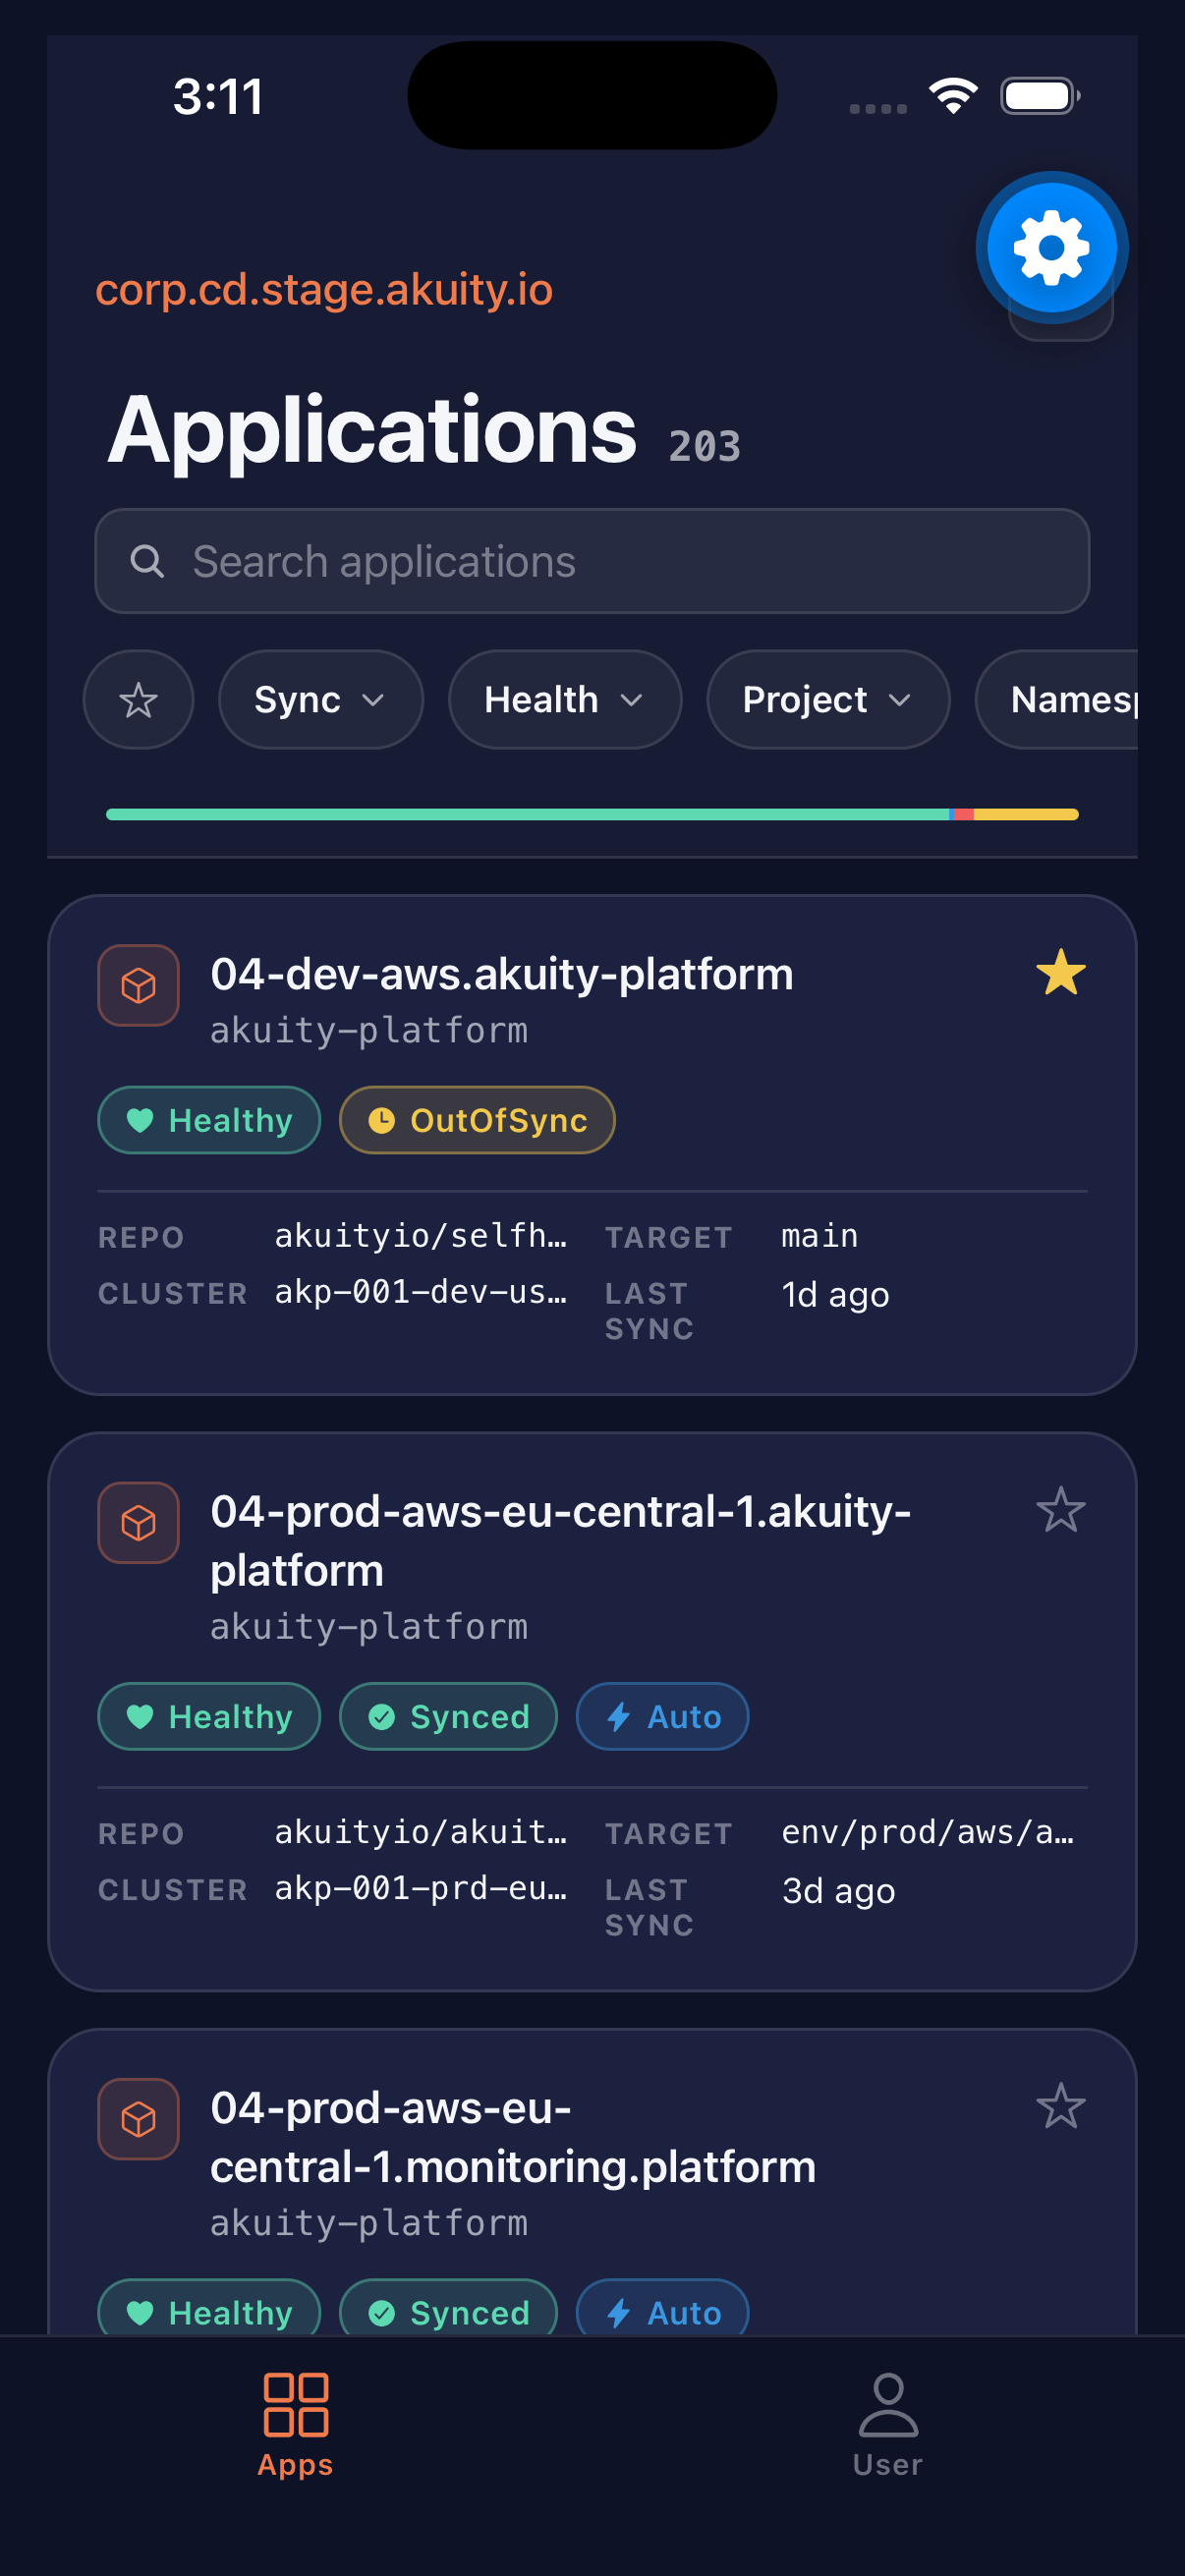
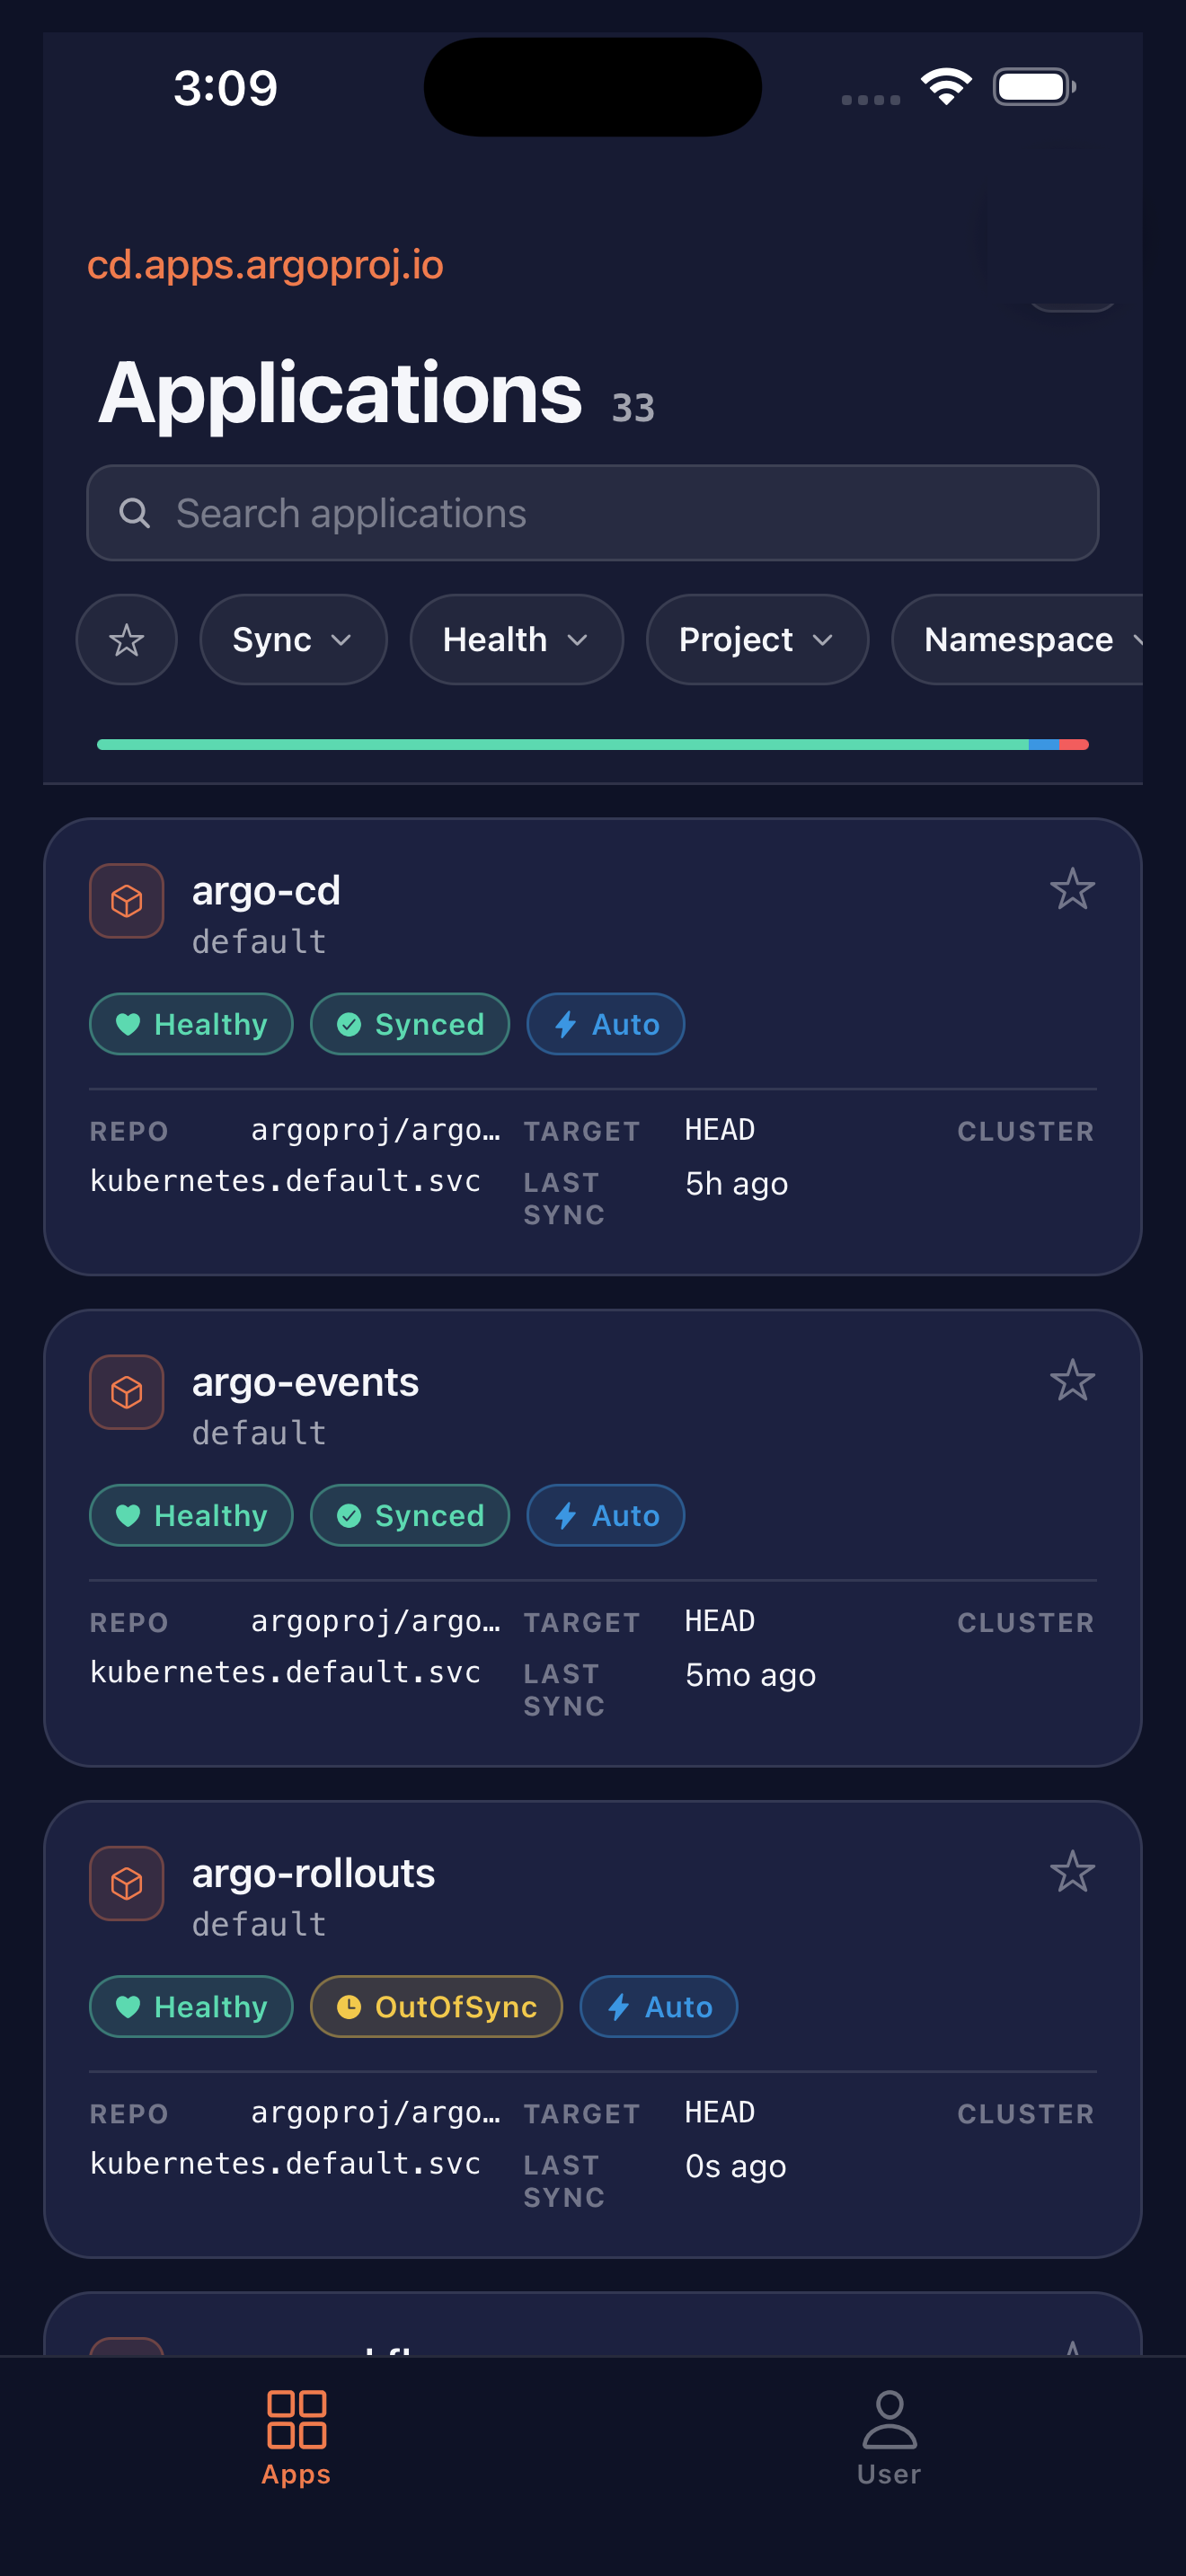
chore: polish website

diff --git a/website/index.html b/website/index.html
@@ -8,6 +8,9 @@
 <link rel="preconnect" href="https://fonts.googleapis.com">
 <link rel="preconnect" href="https://fonts.gstatic.com" crossorigin>
 <link href="https://fonts.googleapis.com/css2?family=Inter:wght@400;500;600;700&family=JetBrains+Mono:wght@400;500&display=swap" rel="stylesheet">
+<link rel="icon" type="image/x-icon" href="favicon.ico">
+<link rel="icon" type="image/png" sizes="32x32" href="favicon-32x32.png">
+<link rel="apple-touch-icon" sizes="180x180" href="apple-touch-icon.png">
 <link rel="stylesheet" href="styles.css">
 </head>
 <body>
@@ -25,6 +28,7 @@
     <nav class="nav" aria-label="Primary">
       <a href="index.html#features">Features</a>
       <a href="index.html#open-source">Open Source</a>
+      <a href="index.html#sso">SSO Setup</a>
       <a href="support.html">Support</a>
       <a href="privacy.html">Privacy</a>
     </nav>
@@ -52,7 +56,7 @@
     <div class="hero-text">
       <span class="pill">
         <span class="dot" aria-hidden="true"></span>
-        <span class="mono">v1.0 · open source</span>
+        <span class="mono">open source</span>
       </span>
       <h1>Argo CD<br><span class="accent">in your pocket.</span></h1>
       <p class="lead">
@@ -258,6 +262,62 @@
   </div>
 </section>
 
+<!-- ============== SSO SETUP ============== -->
+<section class="faq-section" id="sso">
+  <div class="container">
+    <div class="section-head">
+      <span class="eyebrow">// SSO Setup</span>
+      <h2>Using SSO? One server-side step.</h2>
+      <p>The app authenticates via OIDC/PKCE — your identity provider, your tokens, nothing in the middle. Depending on how your Argo CD is configured, you may need to register one redirect URI.</p>
+    </div>
+
+    <div class="faq-list">
+
+      <details class="faq-item" open>
+        <summary>
+          <span>Dex (built-in): register the mobile redirect URI</span>
+          <span class="faq-toggle" aria-hidden="true"><svg viewBox="0 0 24 24" fill="none" stroke="currentColor" stroke-width="2" stroke-linecap="round" stroke-linejoin="round"><path d="M12 5v14M5 12h14"/></svg></span>
+        </summary>
+        <div class="faq-body">
+          <p>Argo CD hardcodes the <code>argo-cd-cli</code> Dex static client with only <code>http://localhost</code> redirect URIs. This list is regenerated on every Dex restart and cannot be overridden via <code>argocd-cm</code>. The patch below wraps the Dex container command with a background watcher that re-injects <code>argocd://auth/callback</code> every time Argo CD regenerates the config:</p>
+<pre class="code-block"><code>kubectl patch deployment argocd-dex-server -n &lt;argocd-namespace&gt; --type=strategic -p '{
+  "spec": {
+    "template": {
+      "spec": {
+        "containers": [{
+          "name": "dex",
+          "command": [
+            "/bin/sh", "-c",
+            "(LAST=\"\"; while true; do M=$(stat -c %Y /tmp/dex.yaml 2>/dev/null); if [ \"$M\" != \"$LAST\" ]; then LAST=$M; grep -q \"argocd://auth/callback\" /tmp/dex.yaml 2>/dev/null || sed -i \"s|  - http://localhost:8085/auth/callback|  - http://localhost:8085/auth/callback\\n  - argocd://auth/callback|\" /tmp/dex.yaml; fi; sleep 0.2; done) &amp; exec /shared/argocd-dex rundex"
+          ]
+        }]
+      }
+    }
+  }
+}'</code></pre>
+          <p><code>exec</code> keeps <code>argocd-dex rundex</code> as PID 1 so it receives Kubernetes signals correctly. The patcher runs in the background and wins the race against Dex startup because it watches for file modification and reacts in under 200 ms.</p>
+        </div>
+      </details>
+
+      <details class="faq-item">
+        <summary>
+          <span>External OIDC provider</span>
+          <span class="faq-toggle" aria-hidden="true"><svg viewBox="0 0 24 24" fill="none" stroke="currentColor" stroke-width="2" stroke-linecap="round" stroke-linejoin="round"><path d="M12 5v14M5 12h14"/></svg></span>
+        </summary>
+        <div class="faq-body">
+          <p>If you use an external OIDC provider configured via <code>oidcConfig</code> in <code>argocd-cm</code>, two changes are needed:</p>
+          <ol>
+            <li>Add <code>argocd://auth/callback</code> to the allowed redirect URIs in your provider's application settings.</li>
+            <li>Set <code>cliClientID</code> in <code>argocd-cm</code> to the client ID that has this redirect URI registered.</li>
+          </ol>
+          <p>No changes to the Dex deployment are required in this configuration.</p>
+        </div>
+      </details>
+
+    </div>
+  </div>
+</section>
+
 <!-- ============== FOOTER ============== -->
 <footer class="site-footer">
   <div class="container">
@@ -282,6 +342,7 @@
       </div>
       <div class="footer-col">
         <h4>Resources</h4>
+        <a href="index.html#sso">SSO Setup</a>
         <a href="support.html">Support</a>
         <a href="https://github.com/alexmt/mobile-for-argocd/issues" target="_blank" rel="noopener">Report an issue</a>
         <a href="https://github.com/alexmt/mobile-for-argocd/discussions" target="_blank" rel="noopener">Discussions</a>
@@ -294,7 +355,7 @@
     </div>
     <div class="footer-bottom">
       <span>© 2026 Alexander Matyushentsev</span>
-      <span class="mono">v1.0 · built with care</span>
+      <span class="mono">built with care</span>
     </div>
   </div>
 </footer>

diff --git a/website/styles.css b/website/styles.css
@@ -996,6 +996,29 @@ img { max-width: 100%; display: block; }
   max-width: 720px;
 }
 .faq-item .faq-body p { margin-bottom: 10px; }
+.faq-item .faq-body ol { margin: 8px 0 12px 22px; }
+.faq-item .faq-body li { margin-bottom: 6px; color: var(--fg-muted); font-size: 0.95rem; line-height: 1.6; }
+.faq-item .faq-body li::marker { color: var(--fg-dim); }
+pre.code-block {
+  font-family: var(--font-mono);
+  font-size: 0.82rem;
+  line-height: 1.6;
+  background: var(--bg-elev);
+  border: 1px solid var(--line-soft);
+  border-radius: var(--radius);
+  padding: 18px 20px;
+  margin: 14px 0 16px;
+  overflow-x: auto;
+  color: var(--fg);
+  white-space: pre;
+}
+pre.code-block code {
+  background: none;
+  border: none;
+  padding: 0;
+  font-size: inherit;
+  color: inherit;
+}
 .faq-item .faq-body code {
   font-family: var(--font-mono);
   font-size: 0.88em;

diff --git a/website/privacy.html b/website/privacy.html
@@ -8,6 +8,9 @@
 <link rel="preconnect" href="https://fonts.googleapis.com">
 <link rel="preconnect" href="https://fonts.gstatic.com" crossorigin>
 <link href="https://fonts.googleapis.com/css2?family=Inter:wght@400;500;600;700&family=JetBrains+Mono:wght@400;500&display=swap" rel="stylesheet">
+<link rel="icon" type="image/x-icon" href="favicon.ico">
+<link rel="icon" type="image/png" sizes="32x32" href="favicon-32x32.png">
+<link rel="apple-touch-icon" sizes="180x180" href="apple-touch-icon.png">
 <link rel="stylesheet" href="styles.css">
 </head>
 <body>
@@ -23,6 +26,7 @@
     <nav class="nav">
       <a href="index.html#features">Features</a>
       <a href="index.html#open-source">Open Source</a>
+      <a href="index.html#sso">SSO Setup</a>
       <a href="support.html">Support</a>
       <a href="privacy.html" class="active">Privacy</a>
     </nav>
@@ -145,6 +149,7 @@
       </div>
       <div class="footer-col">
         <h4>Resources</h4>
+        <a href="index.html#sso">SSO Setup</a>
         <a href="support.html">Support</a>
         <a href="https://github.com/alexmt/mobile-for-argocd/issues" target="_blank" rel="noopener">Report an issue</a>
         <a href="https://github.com/alexmt/mobile-for-argocd/discussions" target="_blank" rel="noopener">Discussions</a>
@@ -157,7 +162,7 @@
     </div>
     <div class="footer-bottom">
       <span>© 2026 Alexander Matyushentsev</span>
-      <span class="mono">v1.0 · built with care</span>
+      <span class="mono">built with care</span>
     </div>
   </div>
 </footer>

diff --git a/website/support.html b/website/support.html
@@ -8,6 +8,9 @@
 <link rel="preconnect" href="https://fonts.googleapis.com">
 <link rel="preconnect" href="https://fonts.gstatic.com" crossorigin>
 <link href="https://fonts.googleapis.com/css2?family=Inter:wght@400;500;600;700&family=JetBrains+Mono:wght@400;500&display=swap" rel="stylesheet">
+<link rel="icon" type="image/x-icon" href="favicon.ico">
+<link rel="icon" type="image/png" sizes="32x32" href="favicon-32x32.png">
+<link rel="apple-touch-icon" sizes="180x180" href="apple-touch-icon.png">
 <link rel="stylesheet" href="styles.css">
 </head>
 <body>
@@ -23,6 +26,7 @@
     <nav class="nav">
       <a href="index.html#features">Features</a>
       <a href="index.html#open-source">Open Source</a>
+      <a href="index.html#sso">SSO Setup</a>
       <a href="support.html" class="active">Support</a>
       <a href="privacy.html">Privacy</a>
     </nav>
@@ -180,6 +184,7 @@
       </div>
       <div class="footer-col">
         <h4>Resources</h4>
+        <a href="index.html#sso">SSO Setup</a>
         <a href="support.html">Support</a>
         <a href="https://github.com/alexmt/mobile-for-argocd/issues" target="_blank" rel="noopener">Report an issue</a>
         <a href="https://github.com/alexmt/mobile-for-argocd/discussions" target="_blank" rel="noopener">Discussions</a>
@@ -192,7 +197,7 @@
     </div>
     <div class="footer-bottom">
       <span>© 2026 Alexander Matyushentsev</span>
-      <span class="mono">v1.0 · built with care</span>
+      <span class="mono">built with care</span>
     </div>
   </div>
 </footer>